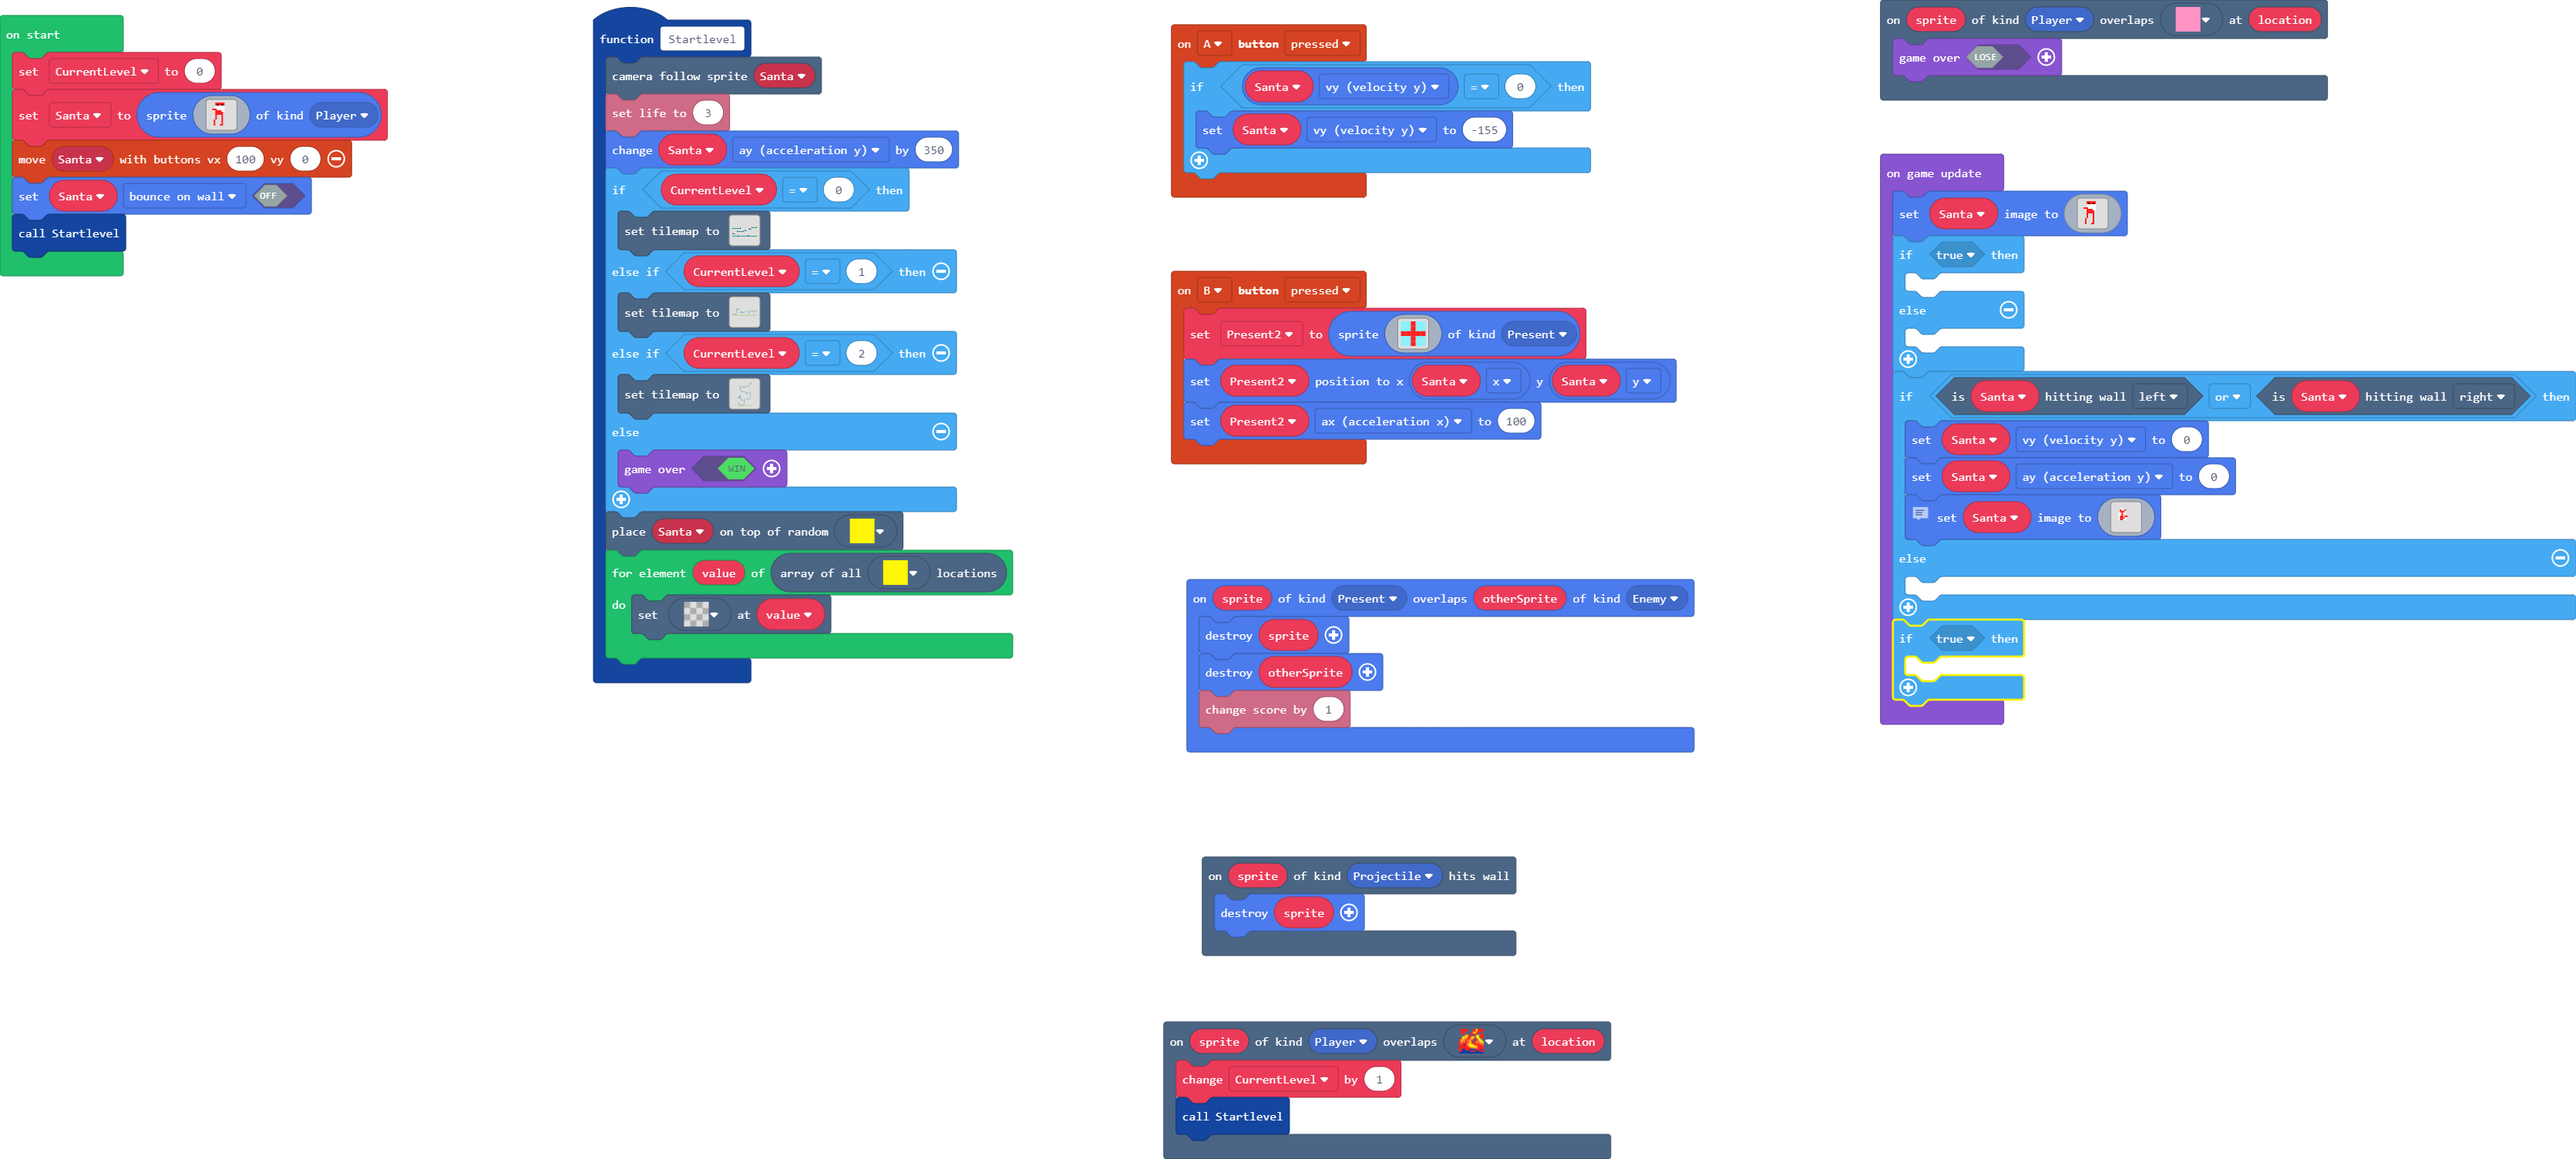
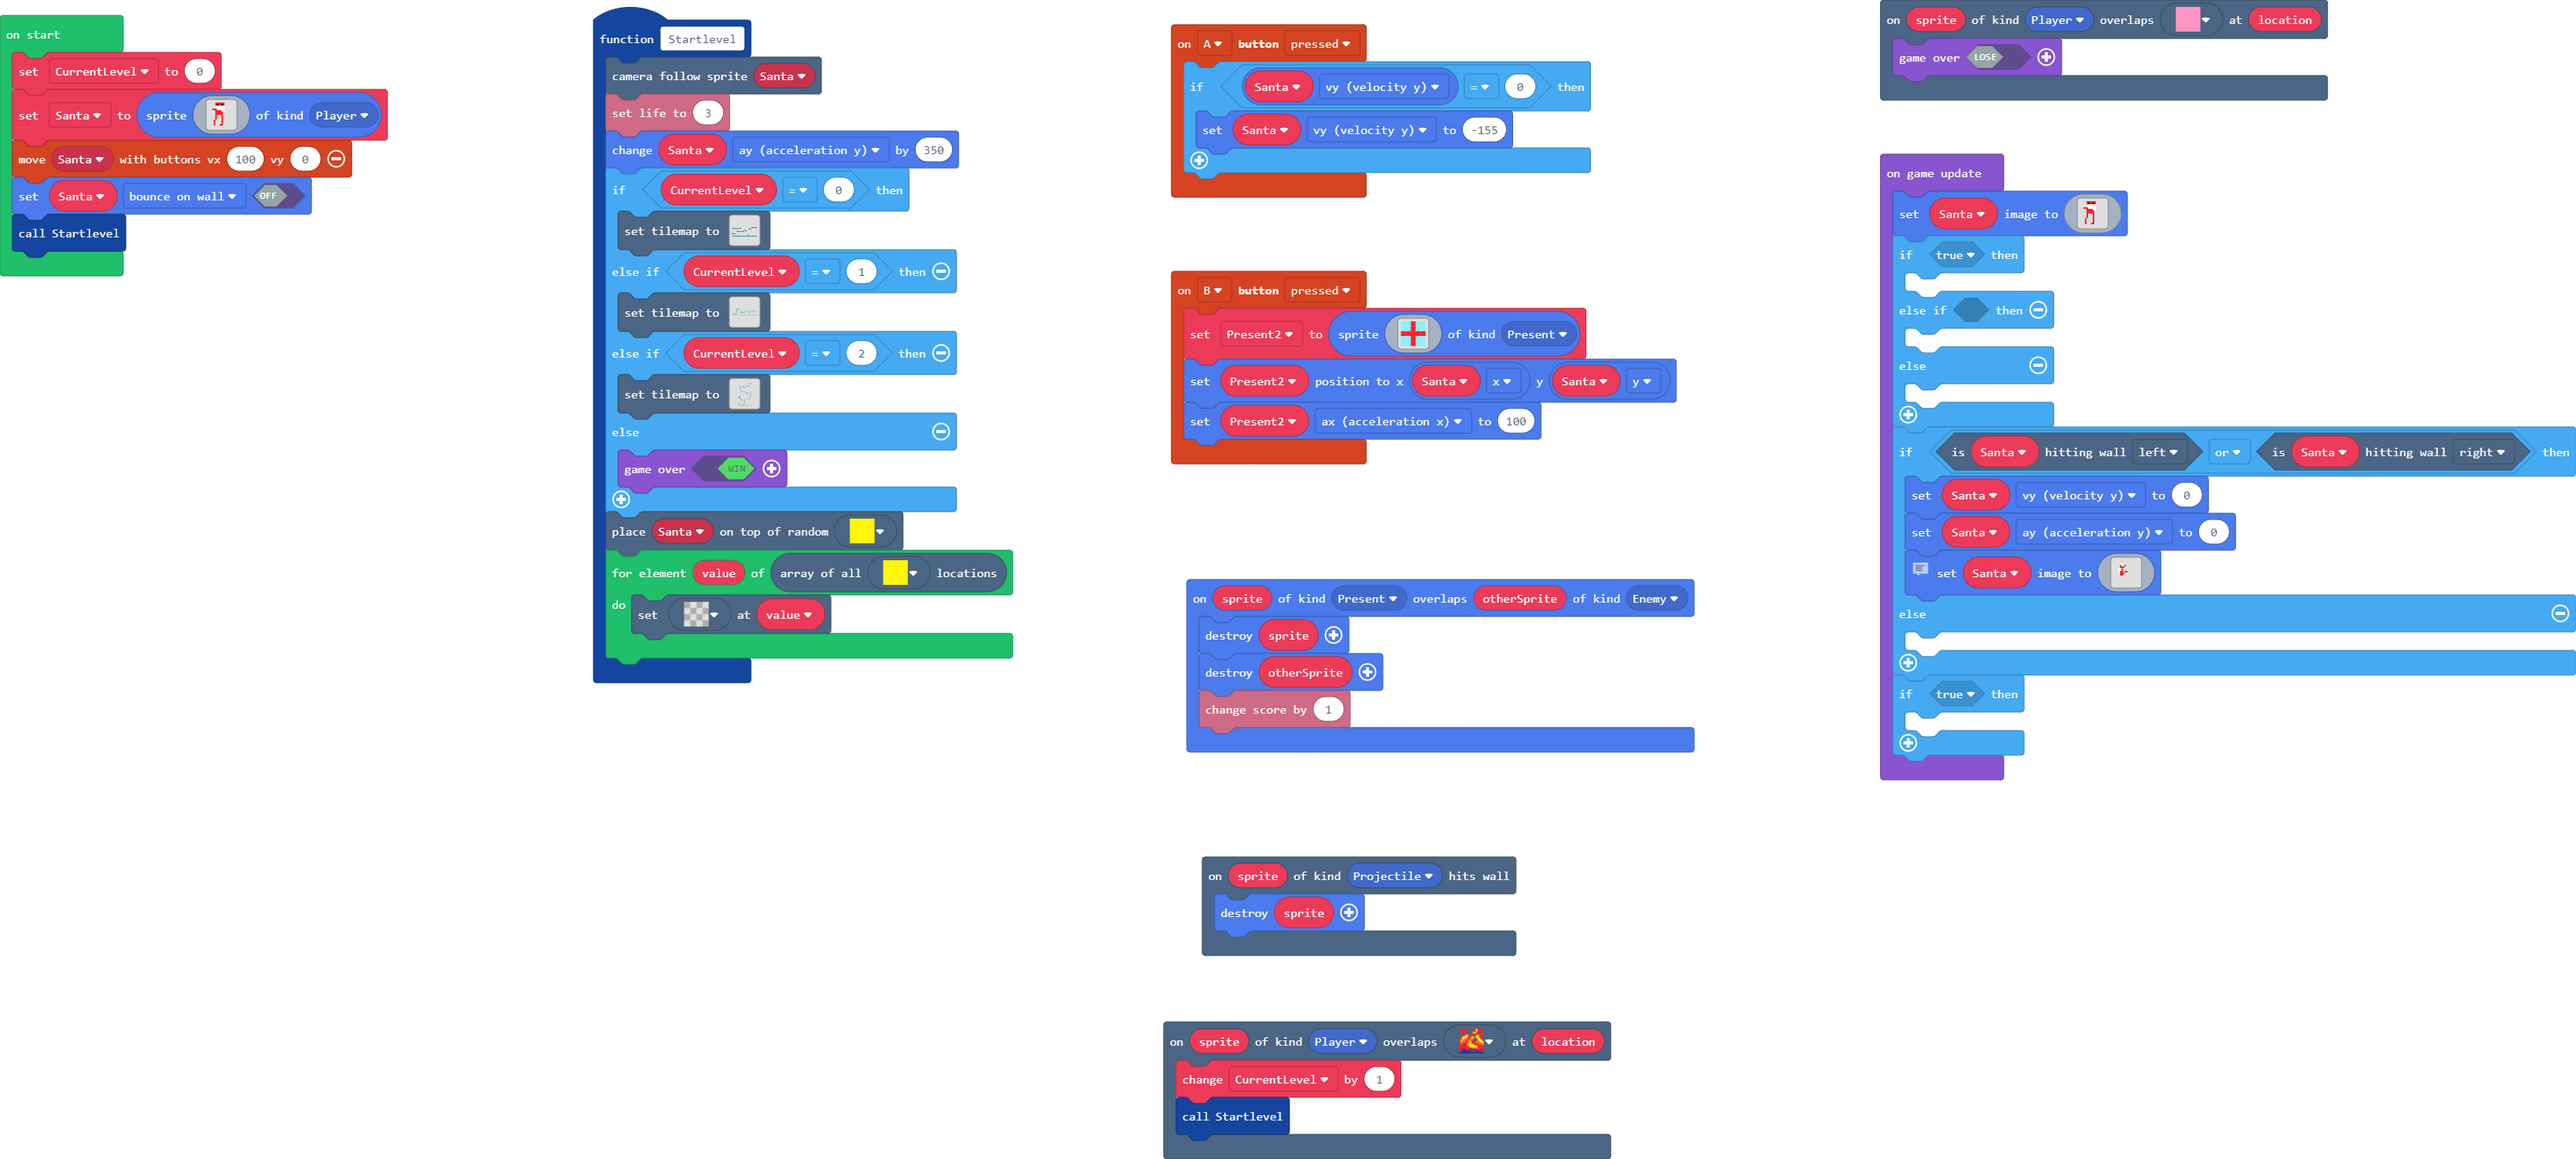
Update main.blocks, main.ts

Changed region(s): [[0.7157, 0.25, 1.0, 0.6875]]

diff --git a/main.ts b/main.ts
@@ -331,6 +331,8 @@ game.onUpdate(function () {
 `)
     if (true) {
     	
+    } else if (false) {
+    	
     } else {
     	
     }
